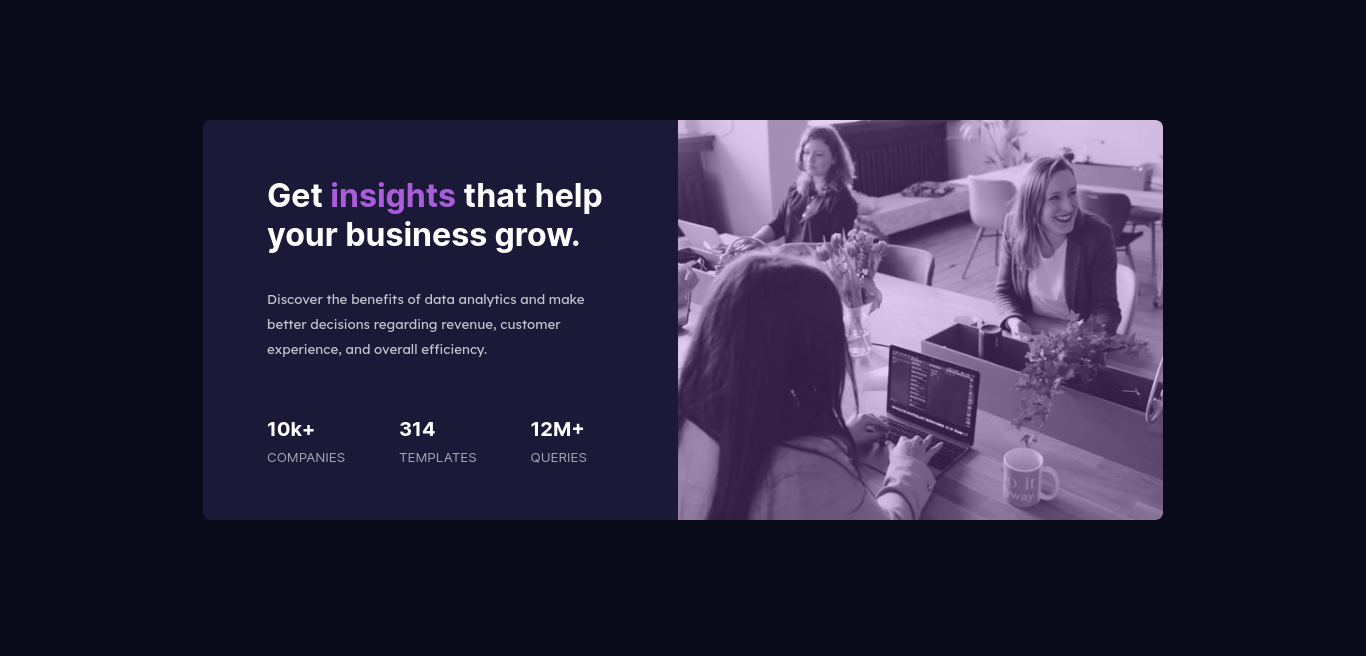
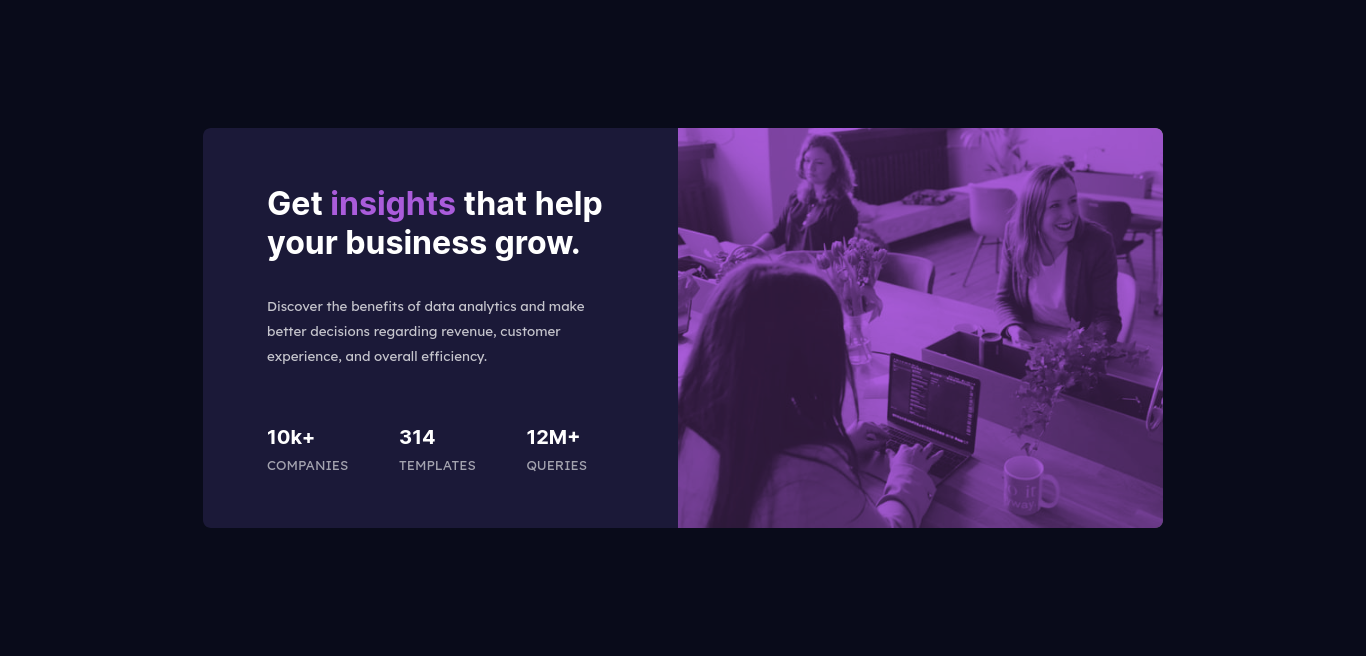
I improved several things

diff --git a/style.css b/style.css
@@ -7,9 +7,13 @@ body {
   background-color: hsl(233, 47%, 7%);
   padding: 5rem 1.5rem;
 }
-@media (min-width: 29rem) {
+@media (min-width: 60rem) {
   body {
-    padding: 7.5rem 0;
+    display: flex;
+    flex-direction: column;
+    justify-content: center;
+    height: 100vh;
+    padding: 0;
   }
 }
 .cont-main-card {
@@ -45,6 +49,7 @@ body {
 .WxH {
   width: 100%;
   height: 100%;
+  object-fit: cover;
 }
 
 /*--Image-Desktop--*/
@@ -68,17 +73,24 @@ body {
     border-radius: 0 0.5rem 0.5rem 0;
   }
 }
-.image-layer {
+.image-layer-0,
+.image-layer-1 {
   border-radius: 0.5rem 0.5rem 0 0;
   position: absolute;
-  opacity: 0.3; /*opacity: 0.6;*/
   top: 0;
   width: 100%;
   height: 100%;
   background: hsl(277, 64%, 61%); /*hsl(277, 87%, 25%);*/
 }
+.image-layer-0 {
+  mix-blend-mode: multiply;
+}
+.image-layer-1 {
+  opacity: 0.25;
+}
 @media (min-width: 60rem) {
-  .image-layer {
+  .image-layer-0,
+  .image-layer-1 {
     border-radius: 0 0.5rem 0.5rem 0;
   }
 }
@@ -166,4 +178,6 @@ body {
 }
 .cont-stats span {
   color: hsla(0, 0%, 100%, 0.6);
+  font-family: "Lexend Deca", sans-serif;
+  text-transform: uppercase;
 }

diff --git a/index.html b/index.html
@@ -21,23 +21,32 @@
     <title>Document</title>
   </head>
   <body>
-    <section class="cont-main-card">
+    <section role="main" class="cont-main-card">
       <!--First Part-->
       <figure class="cont-image-card">
-        <img src="./images/image-header-desktop.jpg" class="image-desk WxH" />
-        <img src="./images/image-header-mobile.jpg" class="image-mob WxH" />
-        <div class="image-layer"></div>
+        <img
+          src="./images/image-header-desktop.jpg"
+          alt=""
+          class="image-desk WxH"
+        />
+        <img
+          src="./images/image-header-mobile.jpg"
+          alt=""
+          class="image-mob WxH"
+        />
+        <div class="image-layer-0"></div>
+        <div class="image-layer-1"></div>
       </figure>
 
       <!--Second Part-->
       <div class="cont-descrip-card">
         <!--Second-0 Part-->
         <div class="cont-title">
-          <h2 class="title">
+          <h1 class="title">
             Get
             <span>insights</span>
             that help your business grow.
-          </h2>
+          </h1>
         </div>
 
         <!--Second-1 Part-->
